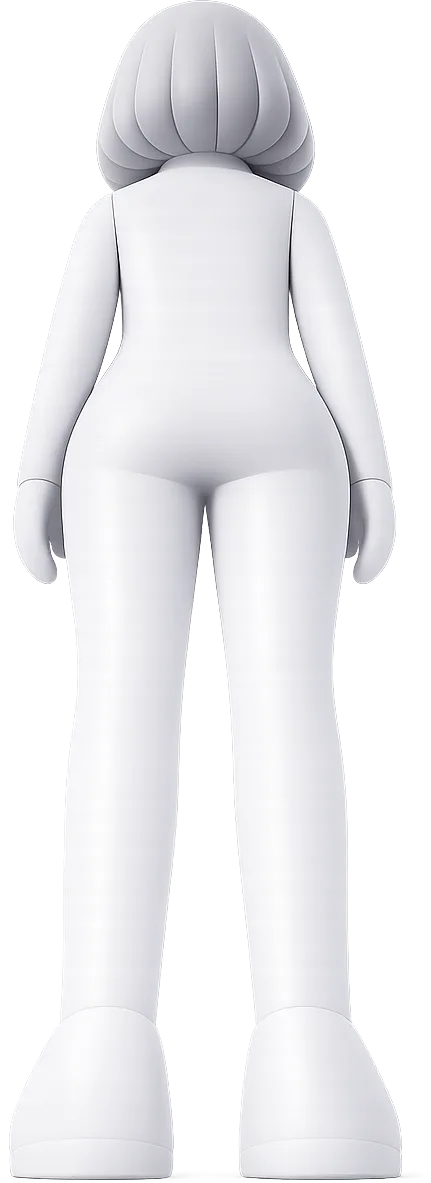
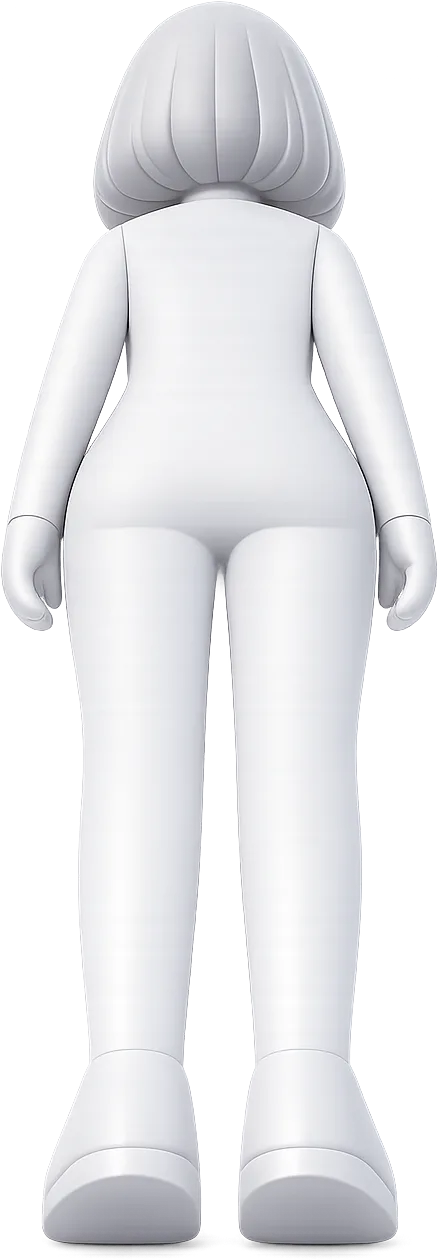
fix(canvas): the top angle turns about the head, low and bottom look different, the man's back no longer stretches
- Overhead: the plan view is placed at the head's height and turned about the head (measured in each person's plan view), so the head stays on the focus point as the person turns. It is sized the same from every side.
- The dominant subject is drawn at the height chosen even where the camera can't reach it: a worm's-eye full shot rests on the ground, and before this it drew the low picture, so bottom and low looked the same.
- The man's back HD picture came from a raw of another shape and was squeezed into the PNG's shape, which stretched it up close. The HD export now skips any raw that doesn't line up and removes HD files whose picture is gone.
- New pet images: the cat's and dog's high, low and most bottom pictures, the horse's high row, and the woman's bottom-back. Four wrong bottom pictures were removed.

diff --git a/lib/visual-assets.ts b/lib/visual-assets.ts
@@ -1,13 +1,25 @@
 /** The plan-diagram asset pack (docs/VISUAL_ASSETS.md): pre-rendered transparent PNGs in public/visuals. Generated by scripts/visual-manifest.ts; do not edit by hand. */
 /** `hd`: a sharper WebP of a character (scripts/visual-hd.ts), the same picture, for close-ups. */
-/** `head`: where the head is in a picture of a person (scripts/visual-head.ts): its top and its neck as shares of the height from the top, its middle across as a share of the width. */
-export type VisualAsset={src:string;width:number;height:number;hd?:string;hdHeight?:number;head?:{top:number;neck:number;x:number}};
+/** `head`: where the head is in a picture of a person (scripts/visual-head.ts): its top and its neck as shares of the height from the top, its middle across as a share of the width. `pivot`: where the head is in the overhead plan view of a person (shares of width and height); the picture turns about it. */
+export type VisualAsset={src:string;width:number;height:number;hd?:string;hdHeight?:number;head?:{top:number;neck:number;x:number};pivot?:{x:number;y:number}};
 export const VISUALS:Record<string,VisualAsset>={
  "animal-3q-back":{src:"/visuals/animal-3q-back.png",width:474,height:640,hd:"/visuals/hd/animal-3q-back.webp",hdHeight:718},
  "animal-3q":{src:"/visuals/animal-3q.png",width:495,height:640,hd:"/visuals/hd/animal-3q.webp",hdHeight:704},
  "animal-back":{src:"/visuals/animal-back.png",width:442,height:640,hd:"/visuals/hd/animal-back.webp",hdHeight:652},
+ "animal-bottom-3q-back":{src:"/visuals/animal-bottom-3q-back.png",width:464,height:640,hd:"/visuals/hd/animal-bottom-3q-back.webp",hdHeight:897},
+ "animal-bottom-back":{src:"/visuals/animal-bottom-back.png",width:531,height:640,hd:"/visuals/hd/animal-bottom-back.webp",hdHeight:754},
+ "animal-bottom-front":{src:"/visuals/animal-bottom-front.png",width:640,height:552,hd:"/visuals/hd/animal-bottom-front.webp",hdHeight:811},
  "animal-front":{src:"/visuals/animal-front.png",width:475,height:640,hd:"/visuals/hd/animal-front.webp",hdHeight:718},
+ "animal-high-3q-back":{src:"/visuals/animal-high-3q-back.png",width:393,height:640,hd:"/visuals/hd/animal-high-3q-back.webp",hdHeight:758},
+ "animal-high-3q":{src:"/visuals/animal-high-3q.png",width:478,height:640,hd:"/visuals/hd/animal-high-3q.webp",hdHeight:641},
+ "animal-high-back":{src:"/visuals/animal-high-back.png",width:372,height:640,hd:"/visuals/hd/animal-high-back.webp",hdHeight:748},
+ "animal-high-front":{src:"/visuals/animal-high-front.png",width:485,height:640,hd:"/visuals/hd/animal-high-front.webp",hdHeight:758},
  "animal-high-side":{src:"/visuals/animal-high-side.png",width:477,height:640,hd:"/visuals/hd/animal-high-side.webp",hdHeight:670},
+ "animal-low-3q-back":{src:"/visuals/animal-low-3q-back.png",width:447,height:640,hd:"/visuals/hd/animal-low-3q-back.webp",hdHeight:815},
+ "animal-low-3q":{src:"/visuals/animal-low-3q.png",width:437,height:640,hd:"/visuals/hd/animal-low-3q.webp",hdHeight:814},
+ "animal-low-back":{src:"/visuals/animal-low-back.png",width:441,height:640,hd:"/visuals/hd/animal-low-back.webp",hdHeight:741},
+ "animal-low-front":{src:"/visuals/animal-low-front.png",width:454,height:640,hd:"/visuals/hd/animal-low-front.webp",hdHeight:810},
+ "animal-low-side":{src:"/visuals/animal-low-side.png",width:466,height:640,hd:"/visuals/hd/animal-low-side.webp",hdHeight:848},
  "animal-side":{src:"/visuals/animal-side.png",width:541,height:640,hd:"/visuals/hd/animal-side.webp",hdHeight:659},
  "animal-top":{src:"/visuals/animal-top.png",width:516,height:640,hd:"/visuals/hd/animal-top.webp",hdHeight:719},
  "camera-side":{src:"/visuals/camera-side.png",width:640,height:360},
@@ -17,7 +29,19 @@ export const VISUALS:Record<string,VisualAsset>={
  "dog-3q-back":{src:"/visuals/dog-3q-back.png",width:640,height:608,hd:"/visuals/hd/dog-3q-back.webp",hdHeight:624},
  "dog-3q":{src:"/visuals/dog-3q.png",width:640,height:597,hd:"/visuals/hd/dog-3q.webp",hdHeight:645},
  "dog-back":{src:"/visuals/dog-back.png",width:290,height:600,hd:"/visuals/hd/dog-back.webp",hdHeight:600},
+ "dog-bottom-3q-back":{src:"/visuals/dog-bottom-3q-back.png",width:640,height:592,hd:"/visuals/hd/dog-bottom-3q-back.webp",hdHeight:779},
+ "dog-bottom-back":{src:"/visuals/dog-bottom-back.png",width:640,height:622,hd:"/visuals/hd/dog-bottom-back.webp",hdHeight:794},
  "dog-front":{src:"/visuals/dog-front.png",width:255,height:640,hd:"/visuals/hd/dog-front.webp",hdHeight:699},
+ "dog-high-3q-back":{src:"/visuals/dog-high-3q-back.png",width:491,height:640,hd:"/visuals/hd/dog-high-3q-back.webp",hdHeight:781},
+ "dog-high-3q":{src:"/visuals/dog-high-3q.png",width:539,height:640,hd:"/visuals/hd/dog-high-3q.webp",hdHeight:813},
+ "dog-high-back":{src:"/visuals/dog-high-back.png",width:365,height:640,hd:"/visuals/hd/dog-high-back.webp",hdHeight:650},
+ "dog-high-front":{src:"/visuals/dog-high-front.png",width:278,height:640,hd:"/visuals/hd/dog-high-front.webp",hdHeight:738},
+ "dog-high-side":{src:"/visuals/dog-high-side.png",width:640,height:463,hd:"/visuals/hd/dog-high-side.webp",hdHeight:607},
+ "dog-low-3q-back":{src:"/visuals/dog-low-3q-back.png",width:585,height:640,hd:"/visuals/hd/dog-low-3q-back.webp",hdHeight:689},
+ "dog-low-3q":{src:"/visuals/dog-low-3q.png",width:626,height:640,hd:"/visuals/hd/dog-low-3q.webp",hdHeight:741},
+ "dog-low-back":{src:"/visuals/dog-low-back.png",width:419,height:640,hd:"/visuals/hd/dog-low-back.webp",hdHeight:751},
+ "dog-low-front":{src:"/visuals/dog-low-front.png",width:295,height:640,hd:"/visuals/hd/dog-low-front.webp",hdHeight:937},
+ "dog-low-side":{src:"/visuals/dog-low-side.png",width:640,height:574,hd:"/visuals/hd/dog-low-side.webp",hdHeight:762},
  "dog-side":{src:"/visuals/dog-side.png",width:640,height:458,hd:"/visuals/hd/dog-side.webp",hdHeight:590},
  "dog-top":{src:"/visuals/dog-top.png",width:182,height:640,hd:"/visuals/hd/dog-top.webp",hdHeight:884},
  "env-mountains":{src:"/visuals/env-mountains.png",width:640,height:376},
@@ -26,11 +50,16 @@ export const VISUALS:Record<string,VisualAsset>={
  "horse-3q":{src:"/visuals/horse-3q.png",width:481,height:640,hd:"/visuals/hd/horse-3q.webp",hdHeight:749},
  "horse-back":{src:"/visuals/horse-back.png",width:234,height:640,hd:"/visuals/hd/horse-back.webp",hdHeight:735},
  "horse-front":{src:"/visuals/horse-front.png",width:226,height:640,hd:"/visuals/hd/horse-front.webp",hdHeight:839},
+ "horse-high-3q-back":{src:"/visuals/horse-high-3q-back.png",width:402,height:640,hd:"/visuals/hd/horse-high-3q-back.webp",hdHeight:795},
+ "horse-high-3q":{src:"/visuals/horse-high-3q.png",width:564,height:640,hd:"/visuals/hd/horse-high-3q.webp",hdHeight:707},
+ "horse-high-back":{src:"/visuals/horse-high-back.png",width:259,height:640,hd:"/visuals/hd/horse-high-back.webp",hdHeight:777},
+ "horse-high-front":{src:"/visuals/horse-high-front.png",width:248,height:640,hd:"/visuals/hd/horse-high-front.webp",hdHeight:911},
+ "horse-high-side":{src:"/visuals/horse-high-side.png",width:640,height:555,hd:"/visuals/hd/horse-high-side.webp",hdHeight:565},
  "horse-side":{src:"/visuals/horse-side.png",width:640,height:548,hd:"/visuals/hd/horse-side.webp",hdHeight:657},
  "horse-top":{src:"/visuals/horse-top.png",width:223,height:640,hd:"/visuals/hd/horse-top.webp",hdHeight:819},
  "human-3q-back":{src:"/visuals/human-3q-back.png",width:157,height:640,hd:"/visuals/hd/human-3q-back.webp",hdHeight:1143,head:{top:0,neck:0.2,x:0.538}},
  "human-3q":{src:"/visuals/human-3q.png",width:177,height:640,hd:"/visuals/hd/human-3q.webp",hdHeight:1140,head:{top:0.002,neck:0.206,x:0.48}},
- "human-back":{src:"/visuals/human-back.png",width:186,height:640,hd:"/visuals/hd/human-back.webp",hdHeight:1536,head:{top:0,neck:0.189,x:0.496}},
+ "human-back":{src:"/visuals/human-back.png",width:186,height:640,head:{top:0,neck:0.189,x:0.496}},
  "human-bottom-3q-back":{src:"/visuals/human-bottom-3q-back.png",width:382,height:640,hd:"/visuals/hd/human-bottom-3q-back.webp",hdHeight:1183,head:{top:0,neck:0.07,x:0.587}},
  "human-bottom-3q":{src:"/visuals/human-bottom-3q.png",width:398,height:640,hd:"/visuals/hd/human-bottom-3q.webp",hdHeight:1143,head:{top:0,neck:0.111,x:0.509}},
  "human-bottom-back":{src:"/visuals/human-bottom-back.png",width:362,height:640,hd:"/visuals/hd/human-bottom-back.webp",hdHeight:1169,head:{top:0.002,neck:0.113,x:0.497}},
@@ -48,7 +77,7 @@ export const VISUALS:Record<string,VisualAsset>={
  "human-low-front":{src:"/visuals/human-low-front.png",width:320,height:640,hd:"/visuals/hd/human-low-front.webp",hdHeight:1153,head:{top:0,neck:0.166,x:0.48}},
  "human-low-side":{src:"/visuals/human-low-side.png",width:137,height:640,hd:"/visuals/hd/human-low-side.webp",hdHeight:1166,head:{top:0.002,neck:0.184,x:0.463}},
  "human-side":{src:"/visuals/human-side.png",width:135,height:640,hd:"/visuals/hd/human-side.webp",hdHeight:1097,head:{top:0,neck:0.214,x:0.483}},
- "human-top":{src:"/visuals/human-top.png",width:640,height:450,hd:"/visuals/hd/human-top.webp",hdHeight:550},
+ "human-top":{src:"/visuals/human-top.png",width:640,height:450,hd:"/visuals/hd/human-top.webp",hdHeight:550,pivot:{x:0.491,y:0.351}},
  "light-fire":{src:"/visuals/light-fire.png",width:542,height:580},
  "light-flash":{src:"/visuals/light-flash.png",width:404,height:640},
  "light-led-panel":{src:"/visuals/light-led-panel.png",width:601,height:640},
@@ -68,6 +97,7 @@ export const VISUALS:Record<string,VisualAsset>={
  "woman-back":{src:"/visuals/woman-back.png",width:186,height:640,hd:"/visuals/hd/woman-back.webp",hdHeight:1140,head:{top:0,neck:0.205,x:0.498}},
  "woman-bottom-3q-back":{src:"/visuals/woman-bottom-3q-back.png",width:208,height:640,hd:"/visuals/hd/woman-bottom-3q-back.webp",hdHeight:1196,head:{top:0.003,neck:0.163,x:0.547}},
  "woman-bottom-3q":{src:"/visuals/woman-bottom-3q.png",width:210,height:640,hd:"/visuals/hd/woman-bottom-3q.webp",hdHeight:1189,head:{top:0,neck:0.195,x:0.443}},
+ "woman-bottom-back":{src:"/visuals/woman-bottom-back.png",width:222,height:640,hd:"/visuals/hd/woman-bottom-back.webp",hdHeight:1260,head:{top:0.002,neck:0.181,x:0.499}},
  "woman-bottom-front":{src:"/visuals/woman-bottom-front.png",width:323,height:640,hd:"/visuals/hd/woman-bottom-front.webp",hdHeight:1264,head:{top:0,neck:0.148,x:0.475}},
  "woman-bottom-side":{src:"/visuals/woman-bottom-side.png",width:167,height:640,hd:"/visuals/hd/woman-bottom-side.webp",hdHeight:1233,head:{top:0,neck:0.169,x:0.525}},
  "woman-front":{src:"/visuals/woman-front.png",width:190,height:640,hd:"/visuals/hd/woman-front.webp",hdHeight:1113,head:{top:0,neck:0.216,x:0.498}},
@@ -82,5 +112,5 @@ export const VISUALS:Record<string,VisualAsset>={
  "woman-low-front":{src:"/visuals/woman-low-front.png",width:227,height:640,hd:"/visuals/hd/woman-low-front.webp",hdHeight:1164,head:{top:0,neck:0.178,x:0.466}},
  "woman-low-side":{src:"/visuals/woman-low-side.png",width:135,height:640,hd:"/visuals/hd/woman-low-side.webp",hdHeight:1167,head:{top:0.002,neck:0.178,x:0.506}},
  "woman-side":{src:"/visuals/woman-side.png",width:132,height:640,hd:"/visuals/hd/woman-side.webp",hdHeight:1113,head:{top:0,neck:0.202,x:0.485}},
- "woman-top":{src:"/visuals/woman-top.png",width:640,height:525,hd:"/visuals/hd/woman-top.webp",hdHeight:572}
+ "woman-top":{src:"/visuals/woman-top.png",width:640,height:525,hd:"/visuals/hd/woman-top.webp",hdHeight:572,pivot:{x:0.485,y:0.319}}
 };

diff --git a/lib/frame-css.ts b/lib/frame-css.ts
@@ -10,7 +10,7 @@
 import type {Staging} from "./creative-plan";
 import {camera3D,closeShare,propSize,propWorld,stageFromWorld,wideFrameRect,worldOrigin,type Camera3D,type FrameRect} from "./scene3d";
 import {PROP_X_RANGE,PROP_Z_RANGE} from "./creative-plan";
-import {DETAIL_HEIGHT,METERS_PER_Z,VERTICAL_STOPS,cubeDims,facingOf,frameSize,isCharacter,isCube,nearestShot,scaleFromSlider,scaleOf,sliderFromScale,supportOf,verticalIndex,wrap180,type SceneProp,type VerticalStop} from "./staging";
+import {DETAIL_HEIGHT,METERS_PER_Z,elevationOf,VERTICAL_STOPS,cubeDims,facingOf,frameSize,isCharacter,isCube,nearestShot,scaleFromSlider,scaleOf,sliderFromScale,supportOf,verticalIndex,wrap180,type SceneProp,type VerticalStop} from "./staging";
 import {sizeOf,spanM,spriteFor,widthM,familyOf,type SpriteSide} from "./sprites";
 import {VISUALS} from "./visual-assets";
 
@@ -173,15 +173,16 @@ export type PropSprite={i:number;id:string;src:string;
  * from, centred on its middle at its real size, blurred by the lens.
  */
 export function thingSprite(v:CssView,p:Pick<SceneProp,"kind"|"label">,ground:V3,size:{h:number;len:number;wid:number},facing:number,/** Where on it the angle is measured, as a share of its height. */look=0.5,
- /** How close the shot is, 0 (full length and wider) to 1 (a ۳/۴ shot and closer, lib/scene3d.ts closeShare): a close shot places a person by the face. */close=0){
+ /** How close the shot is, 0 (full length and wider) to 1 (a ۳/۴ shot and closer, lib/scene3d.ts closeShare): a close shot places a person by the face. */close=0,
+ /** The height stop to draw it at, when not the one measured (the main subject is drawn at the angle the user chose). */stop?:VerticalStop){
  const h=size.h,centre:V3=[ground[0],ground[1]+h/2,ground[2]];
- const view=viewOf(v,[ground[0],ground[1]+h*look,ground[2]],facing),sp=spriteFor(p,view.stop,view.apparent),a=VISUALS[sp.id];if(!a)return undefined;
+ const measured=viewOf(v,[ground[0],ground[1]+h*look,ground[2]],facing),view=stop?{...measured,stop}:measured,sp=spriteFor(p,view.stop,view.apparent),a=VISUALS[sp.id];if(!a)return undefined;
  const stopDeg=VERTICAL_STOPS.find(x=>x.id===sp.height)!.deg;
  // The image's height in metres: the thing's height foreshortened plus its depth seen from above or below, at its real size. A cube also takes the
  // object's width (a desk is wide and low, a phone thin and tall), so it is stretched sideways to it.
  // Sized to how tall the thing really looks from where the camera is (not from the height its picture was drawn at), so crossing from one angle's
- // picture to the next never changes its size; an overhead plan view is the thing's footprint, at its own size.
- const mpp=spanM(size,sp.height==="top"?stopDeg:view.elevation,sp.side)/a.height,sx=familyOf(p)==="cube"?(widthM(size,sp.side)/a.width)/mpp:1;
+ // picture to the next never changes its size; an overhead plan view is the thing's footprint, the same size whichever way it faces.
+ const mpp=(sp.height==="top"?spanM(size,stopDeg,"front"):spanM(size,view.elevation,sp.side))/a.height,sx=familyOf(p)==="cube"?(widthM(size,sp.side)/a.width)/mpp:1;
  // Placed by its middle; a camera so close that its middle is beside or behind the lens (a worm's-eye close-up) places it by the point it looks at.
  const lookAt:V3=[ground[0],ground[1]+h*look,ground[2]],mppX=mpp*sx;
  // Tilted toward the height the camera sees it from: an image from another height (the pack lacks this one yet) still faces the camera instead of
@@ -193,13 +194,16 @@ export function thingSprite(v:CssView,p:Pick<SceneProp,"kind"|"label">,ground:V3
  // An overhead plan view (no head to measure) is placed at the head's height up close, where the camera looks down onto the head, not the waist.
  const head=a.head,ref=VISUALS[familyOf(p)+"-front"]?.head,person=Boolean(ref)&&(Boolean(head)||sp.height==="top"),k=person?Math.max(0,Math.min(1,close)):0;
  const faceAt:V3=[ground[0],ground[1]+h*DETAIL_HEIGHT.face,ground[2]],mppHead=head&&ref?(ref.neck-ref.top)*h/((head.neck-head.top)*a.height):mpp;
- const m2=mpp+(mppHead-mpp)*k,at:V3=k?add(centre,mul(sub(faceAt,centre),k)):centre;
+ // An overhead plan view lies at the head's height at any zoom (from above, the camera looks down onto the head).
+ const m2=mpp+(mppHead-mpp)*k,at:V3=person&&sp.height==="top"?faceAt:k?add(centre,mul(sub(faceAt,centre),k)):centre;
  // The picture faces the camera squarely, tilted to the camera's real height (it is drawn as seen from about there): nothing of it is foreshortened or
  // reaches toward the lens, and as the camera rises or sinks it turns smoothly with it, so crossing from one angle's picture to the next never jumps.
  // An overhead plan view lies flat.
  const toCamDir=sub(v.pos,at),realDeg=Math.asin(Math.max(-1,Math.min(1,toCamDir[1]/(Math.hypot(...toCamDir)||1))))*180/Math.PI;
  const tilt=sp.height==="top"?seenDeg:realDeg;
- const st=standee(v,at,a.width,a.height,mppX*m2/mpp,m2,sp.mirror,0.5+((head?(head.top+head.neck)/2:0.5)-0.5)*k,tilt,sp.spin,0.5+((head?.x??0.5)-0.5)*k)
+ // An overhead plan view is placed and turned about its head (`pivot`), so the head stays where the camera aims whichever way the person faces.
+ const pv=a.pivot;
+ const st=standee(v,at,a.width,a.height,mppX*m2/mpp,m2,sp.mirror,pv?pv.y:0.5+((head?(head.top+head.neck)/2:0.5)-0.5)*k,tilt,sp.spin,pv?pv.x:0.5+((head?.x??0.5)-0.5)*k)
   ??standee(v,lookAt,a.width,a.height,mppX,mpp,sp.mirror,1-look,seenDeg,sp.spin);if(!st)return undefined;
  const tiles=tilesFor(v,st.o,st.ex,st.ey,a.width,a.height);if(!tiles)return undefined;
  // Drawn at the px it covers on screen, so the lens's blur (screen px) applies as it is; drawn larger than its 640 px image (a close-up), from its HD version.
@@ -216,12 +220,15 @@ export function propSprites(v:CssView,props:readonly SceneProp[],s:Staging,ancho
  const aim=m?Math.max(0,Math.min(1,(v.cam.target[1]-propWorld(m,s,anchor).pos[1])/propSize(m).h)):0.5;
  // How close the shot is: a ۳/۴ shot and closer places a person by the face, a full-length one by the body (thingSprite).
  const close=closeShare(s);
+ // The dominant subject is drawn at the height the user chose: a camera that cannot go lower (a worm's-eye view of a whole figure rests on the ground
+ // and looks up less steeply) still shows the worm's-eye picture, so every stop looks different.
+ const chosen=VERTICAL_STOPS[verticalIndex(elevationOf(s))].id;
  return props.flatMap((p,i):PropSprite[]=>{
   const g=propWorld(p,s,anchor,props).pos as V3,size=sizeOf(p);
   if(isCube(p)){const b=boxFaces(v,g,cubeDims(p),facingOf(p));if(!b)return [];
    return [{i,id:"box",src:"",tiles:[],depth:supportOf(p,props)?b.depth-0.01:b.depth,blur:(s.pivot?s.pivot.on===i:Boolean(p.main))?0:b.blur,side:"front" as SpriteSide,stop:"eye" as VerticalStop,faces:b.faces,
     quads:b.faces.map(f=>f.quad),ground:g,top:[g[0],g[1]+size.h*1.05,g[2]] as V3}];}
-  const t=thingSprite(v,p,g,size,facingOf(p),m&&p.kind===m.kind?aim:0.5,close);
+  const t=thingSprite(v,p,g,size,facingOf(p),m&&p.kind===m.kind?aim:0.5,close,p.main?chosen:undefined);
   // Something resting on another (a phone on a desk) is drawn after it.
   const under=supportOf(p,props);
   // The prop the camera focuses on is sharp: its picture is one flat plane through its middle, but the focus sits on it (its face, or where the user

diff --git a/scripts/visual-manifest.ts b/scripts/visual-manifest.ts
@@ -3,16 +3,17 @@ import {readdir,writeFile} from "node:fs/promises";
 import {existsSync} from "node:fs";
 import path from "node:path";
 import sharp from "sharp";
-import {headOf} from "./visual-head";
+import {headOf,planHeadOf} from "./visual-head";
 const dir=path.join(process.cwd(),"public","visuals");
 const files=(await readdir(dir)).filter(f=>f.endsWith(".png")).sort();
 const rows:string[]=[];
 for(const f of files){const m=await sharp(path.join(dir,f)).metadata(),id=f.replace(/\.png$/,""),hdFile=path.join(dir,"hd",id+".webp"),hd=existsSync(hdFile)?await sharp(hdFile).metadata():undefined;
  // A person's head in each of its pictures (not the plan views from overhead): the frame places a close-up by the face.
- const head=/^(human|woman)-/.test(id)&&!id.endsWith("-top")?await headOf(path.join(dir,f)):undefined,r3=(n:number)=>Math.round(n*1000)/1000;
- rows.push(' "'+id+'":{src:"/visuals/'+f+'",width:'+m.width+',height:'+m.height+(hd?',hd:"/visuals/hd/'+id+'.webp",hdHeight:'+hd.height:'')+(head?',head:{top:'+r3(head.top)+',neck:'+r3(head.neck)+',x:'+r3(head.x)+'}':'')+'}');}
+ const head=/^(human|woman)-/.test(id)&&!id.endsWith("-top")?await headOf(path.join(dir,f)):undefined,
+  plan=/^(human|woman)-top$/.test(id)?await planHeadOf(path.join(dir,f)):undefined,r3=(n:number)=>Math.round(n*1000)/1000;
+ rows.push(' "'+id+'":{src:"/visuals/'+f+'",width:'+m.width+',height:'+m.height+(hd?',hd:"/visuals/hd/'+id+'.webp",hdHeight:'+hd.height:'')+(head?',head:{top:'+r3(head.top)+',neck:'+r3(head.neck)+',x:'+r3(head.x)+'}':'')+(plan?',pivot:{x:'+r3(plan.x)+',y:'+r3(plan.y)+'}':'')+'}');}
 await writeFile(path.join(process.cwd(),"lib","visual-assets.ts"),
 '/** The plan-diagram asset pack (docs/VISUAL_ASSETS.md): pre-rendered transparent PNGs in public/visuals. Generated by scripts/visual-manifest.ts; do not edit by hand. */\n'+
-'/** `hd`: a sharper WebP of a character (scripts/visual-hd.ts), the same picture, for close-ups. */\n/** `head`: where the head is in a picture of a person (scripts/visual-head.ts): its top and its neck as shares of the height from the top, its middle across as a share of the width. */\nexport type VisualAsset={src:string;width:number;height:number;hd?:string;hdHeight?:number;head?:{top:number;neck:number;x:number}};\n'+
+'/** `hd`: a sharper WebP of a character (scripts/visual-hd.ts), the same picture, for close-ups. */\n/** `head`: where the head is in a picture of a person (scripts/visual-head.ts): its top and its neck as shares of the height from the top, its middle across as a share of the width. `pivot`: where the head is in the overhead plan view of a person (shares of width and height); the picture turns about it. */\nexport type VisualAsset={src:string;width:number;height:number;hd?:string;hdHeight?:number;head?:{top:number;neck:number;x:number};pivot?:{x:number;y:number}};\n'+
 'export const VISUALS:Record<string,VisualAsset>={\n'+rows.join(",\n")+'\n};\n');
 console.log(files.length,"assets");

diff --git a/tests/frame-css.test.ts b/tests/frame-css.test.ts
@@ -299,9 +299,13 @@ test("no jump between angles: up to a ۳/۴ shot a person's face stays where the
   for(const x of seen){assert.ok(Math.hypot(x.f[0]-150,x.f[1]-200)<2,label+" "+shotScale+": the face at the frame's centre ("+x.f.map(Math.round)+")");
    assert.ok(Math.abs(x.head/seen[2].head-1)<0.05,label+" "+shotScale+": head "+x.head.toFixed(0)+" vs "+seen[2].head.toFixed(0));}
  }
- // From overhead, the plan view is placed at the head: the head is still at the centre.
- const s:Staging={...base,cameraElevation:80,shotScale:0.2},v=cssView(s,s,"3:4",300,400),q=propSprites(v,[man],s,s)[0].quad!;
- const c=toScreen(v,q[0].map((x,i)=>(x+q[2][i])/2) as V3)!;assert.ok(Math.hypot(c[0]-150,c[1]-200)<2);
+ // From overhead, the plan view is placed and turned about its head: the head stays at the centre and the picture keeps its size as the person turns.
+ for(const shotScale of [0.2,1.1]){const seen=[0,45,90,135,180].map(facing=>{const p={...man,facing},s:Staging={...base,cameraElevation:80,shotScale,props:[p]},v=cssView(s,s,"3:4",300,400);
+  const sp=propSprites(v,[p],s,s)[0],a=VISUALS[sp.id],q=sp.quad!,at=(u:number,w:number)=>toScreen(v,q[0].map((c,i)=>c+(q[1][i]-c)*u+(q[3][i]-c)*w) as V3)!;
+  const h=at(a.pivot!.x,a.pivot!.y),l=at(0,0.5),r=at(1,0.5);return {h,w:Math.hypot(l[0]-r[0],l[1]-r[1])};});
+  for(const x of seen){assert.ok(Math.hypot(x.h[0]-150,x.h[1]-200)<3,shotScale+": head at "+x.h.map(Math.round));assert.ok(Math.abs(x.w/seen[0].w-1)<0.01);}}
+ // The main subject shows the height chosen even where the camera cannot reach it (a worm's-eye full shot rests on the ground).
+ const low:Staging={...base,cameraElevation:-55,shotScale:1.1};assert.equal(propSprites(cssView(low,low,"3:4",300,400),[man],low,low)[0].stop,"bottom");
 });
 
 test("the overhead plan view turns with the way the person faces; pets face as drawn",()=>{

diff --git a/scripts/visual-hd.ts b/scripts/visual-hd.ts
@@ -5,7 +5,7 @@
  *
  *   node --import tsx scripts/visual-hd.ts
  */
-import {mkdir,readdir,writeFile} from "node:fs/promises";
+import {mkdir,readdir,rm,writeFile} from "node:fs/promises";
 import {existsSync} from "node:fs";
 import path from "node:path";
 import sharp from "sharp";
@@ -19,7 +19,13 @@ for(const f of (await readdir(DIR)).filter(f=>f.endsWith(".png")&&CHARACTER.test
  const id=f.replace(/\.png$/,""),raw=path.join(RAW,f);
  if(!existsSync(raw)){console.log("no raw:",id);continue;}
  const trimmed=await sharp(raw).trim({threshold:1}).toBuffer();
+ // The HD picture must line up with the PNG exactly (the frame draws either in the same place): a raw that trims to another shape (it was
+ // regenerated or refinished since) gets no HD version, and the PNG is used up close.
+ const [png,hdm]=await Promise.all([sharp(path.join(DIR,f)).metadata(),sharp(trimmed).metadata()]);
+ if(Math.abs(Math.log((png.width!/png.height!)/(hdm.width!/hdm.height!)))>0.015){console.log("shape differs, no HD:",id);await rm(path.join(HD,id+".webp"),{force:true});continue;}
  const out=await sharp(trimmed).resize({width:1536,height:1536,fit:"inside",withoutEnlargement:true}).webp({quality:82,alphaQuality:90}).toBuffer();
  await writeFile(path.join(HD,id+".webp"),out);n++;
 }
+// HD versions whose picture is gone.
+for(const f of await readdir(HD)){const id=f.replace(/\.webp$/,"");if(!existsSync(path.join(DIR,id+".png"))){await rm(path.join(HD,f));console.log("removed",f);}}
 console.log(n,"HD images");

diff --git a/scripts/visual-head.ts b/scripts/visual-head.ts
@@ -22,3 +22,15 @@ export async function headOf(file:string):Promise<Head|undefined>{
  let sx=0,sn=0;for(let y=top;y<neck;y++)for(let x=0;x<W;x++)if(on(x,y)){sx+=x;sn++;}
  return {top:(top)/H,neck:neck/H,x:sn?sx/sn/W:0.5};
 }
+/**
+ * Where the head is in a person's overhead plan view (the pack's `*-top`), as shares of the picture's width and height: the middle of its hair, picked out
+ * by the hair's blue-grey clay (the body's clay is neutral). The frame turns the plan view about this point, so the head stays where the camera aims.
+ */
+export async function planHeadOf(file:string):Promise<{x:number;y:number}|undefined>{
+ const {data,info}=await sharp(file).ensureAlpha().raw().toBuffer({resolveWithObject:true});
+ const W=info.width,H=info.height,xs:number[]=[],ys:number[]=[];
+ for(let y=0;y<H;y++)for(let x=0;x<W;x++){const i=(y*W+x)*4;if(data[i+3]<250)continue;const r=data[i],b=data[i+2];if(r<185&&b-r>=6){xs.push(x);ys.push(y);}}
+ if(xs.length<100)return undefined;
+ xs.sort((a,b)=>a-b);ys.sort((a,b)=>a-b);const q=(a:number[],p:number)=>a[Math.floor(a.length*p)];
+ return {x:(q(xs,0.01)+q(xs,0.99))/2/W,y:(q(ys,0.01)+q(ys,0.99))/2/H};
+}

diff --git a/docs/VISUAL_ASSETS.md b/docs/VISUAL_ASSETS.md
@@ -30,9 +30,10 @@
   - **Colours:** several cubes each get their own tint.
 - **Generated** by `scripts/generate-visual-assets.ts` from the same side's eye-level image (plus the style anchor), so design, facing and style match the pack. The dog and the horse start from the cat's style.
   - A generated image faces the way its eye-level reference does unless `NATIVE` in `lib/sprites.ts` says otherwise; check new ones by eye.
-  - **Done:** the man's and the woman's full matrices (the man's side column regenerated as true profiles), except the woman's bottom-back. The dog's and the horse's eye-level sides and plan views. The cat's high side. Dog and horse side pictures face right (`NATIVE`).
-  - **Still to generate (OpenAI credits ran out):** the woman's bottom-back, and the cat's, dog's and horse's high, low and bottom rows. Run `scripts/generate-visual-assets.ts` for the missing ids, then `scripts/visual-hd.ts` and `scripts/visual-manifest.ts`.
-  - **The head in each person picture** is measured by `scripts/visual-head.ts` (its top, its neck, its middle across) and recorded in the manifest (`head`).
+  - **Done:** the man's and the woman's full matrices (the man's side column regenerated as true profiles). The cat's and the dog's high and low rows and most of their bottom rows. The horse's high row. Every family's plan view. Dog and horse side pictures face right (`NATIVE`).
+  - **Still to generate:** the horse's low and bottom rows (OpenAI credits ran out). The dog's bottom-front was refused by the image model's safety filter; reword its prompt before retrying. The cat's and the dog's bottom-side and bottom-3q came out wrong (a front view, a distorted or wrongly facing one) and were removed. Run `scripts/generate-visual-assets.ts` for the missing ids, check them by eye, then run `scripts/visual-hd.ts` and `scripts/visual-manifest.ts`.
+  - **The head in each person picture** is measured by `scripts/visual-head.ts` (its top, its neck, its middle across) and recorded in the manifest (`head`). In a person's plan view it's the middle of the hair (`pivot`): the plan view is placed at the head's height and turned about it, so the head stays where the camera aims whichever way the person faces.
+  - **The dominant subject is drawn at the height chosen,** even where the camera can't reach it (a worm's-eye full shot rests the camera on the ground), so each stop looks different.
   - **Missing images** fall back to the same side at the next height toward eye level (`spriteFor`).
 - **Removed:** the bottle, car, building and tree images (they're cubes now).
 
@@ -55,7 +56,7 @@
     - **Extreme close-up of a character:** the zoom goes on past that, down to the eyes or the mouth (the «لبها» focus detail). The frame stops at the whole head (its height × `HEAD_ROOM`). Tighter, it stays there and a green border on the face shows the real crop, growing and shrinking with the zoom (`closeUp`). No extra images are needed.
     - **Props:** drag as far past either edge as the other (a third of the frame), never behind the lens, and stop before the background (`propReach3D`). Their sliders use the same range.
     - **Focus dot:** stays inside the frame.
-  - **HD characters:** `scripts/visual-hd.ts` exports each character image as a WebP of up to 1536 px from its raw generation, trimmed exactly like the 640 px PNG. The frame uses it when a character is drawn larger than its PNG. Re-run it, then `scripts/visual-manifest.ts`, after generating.
+  - **HD characters:** `scripts/visual-hd.ts` exports each character image as a WebP of up to 1536 px from its raw generation, trimmed exactly like the 640 px PNG. The frame uses it when a character is drawn larger than its PNG. A raw that no longer trims to the PNG's shape (regenerated or refinished since) gets no HD version, so a close-up is never stretched; HD files without a PNG are removed. Re-run it, then `scripts/visual-manifest.ts`, after generating.
 - **WebGL (Plan B, parked):** the three.js models are kept in `components/scene-3d.tsx` and on the `archive/plan-b-3d` branch. Switch with `FRAME_RENDERER` in `components/staging-editor.tsx`.
 - **Angle controls:** the height and orbit sliders, the camera drags and each prop's turn snap to the stops. The joystick in the frame's bottom-left steps them: up and down change the height, left and right orbit 45°. Its centre shows the angle and resets to eye level, from the front.
 
